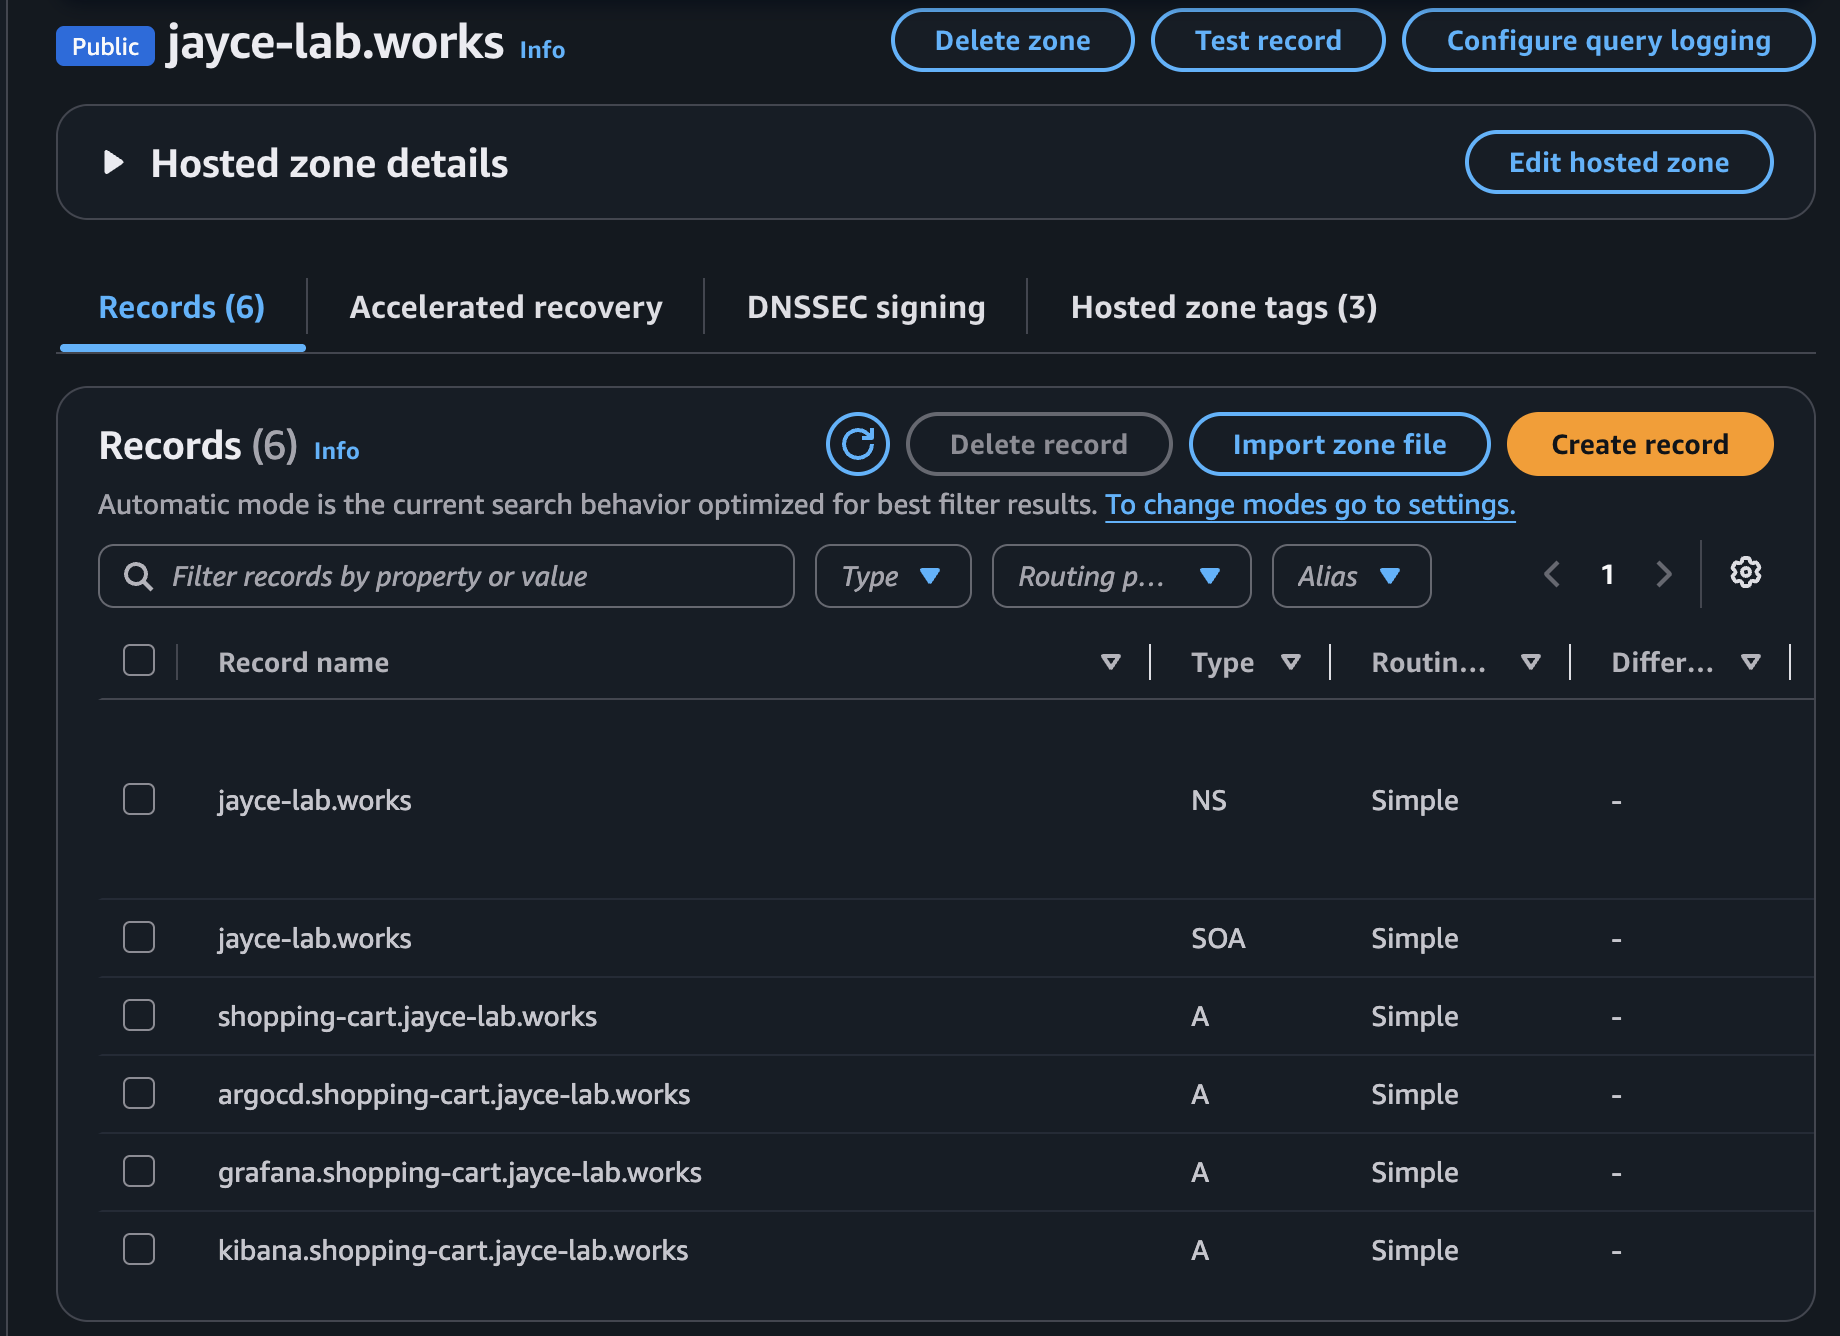
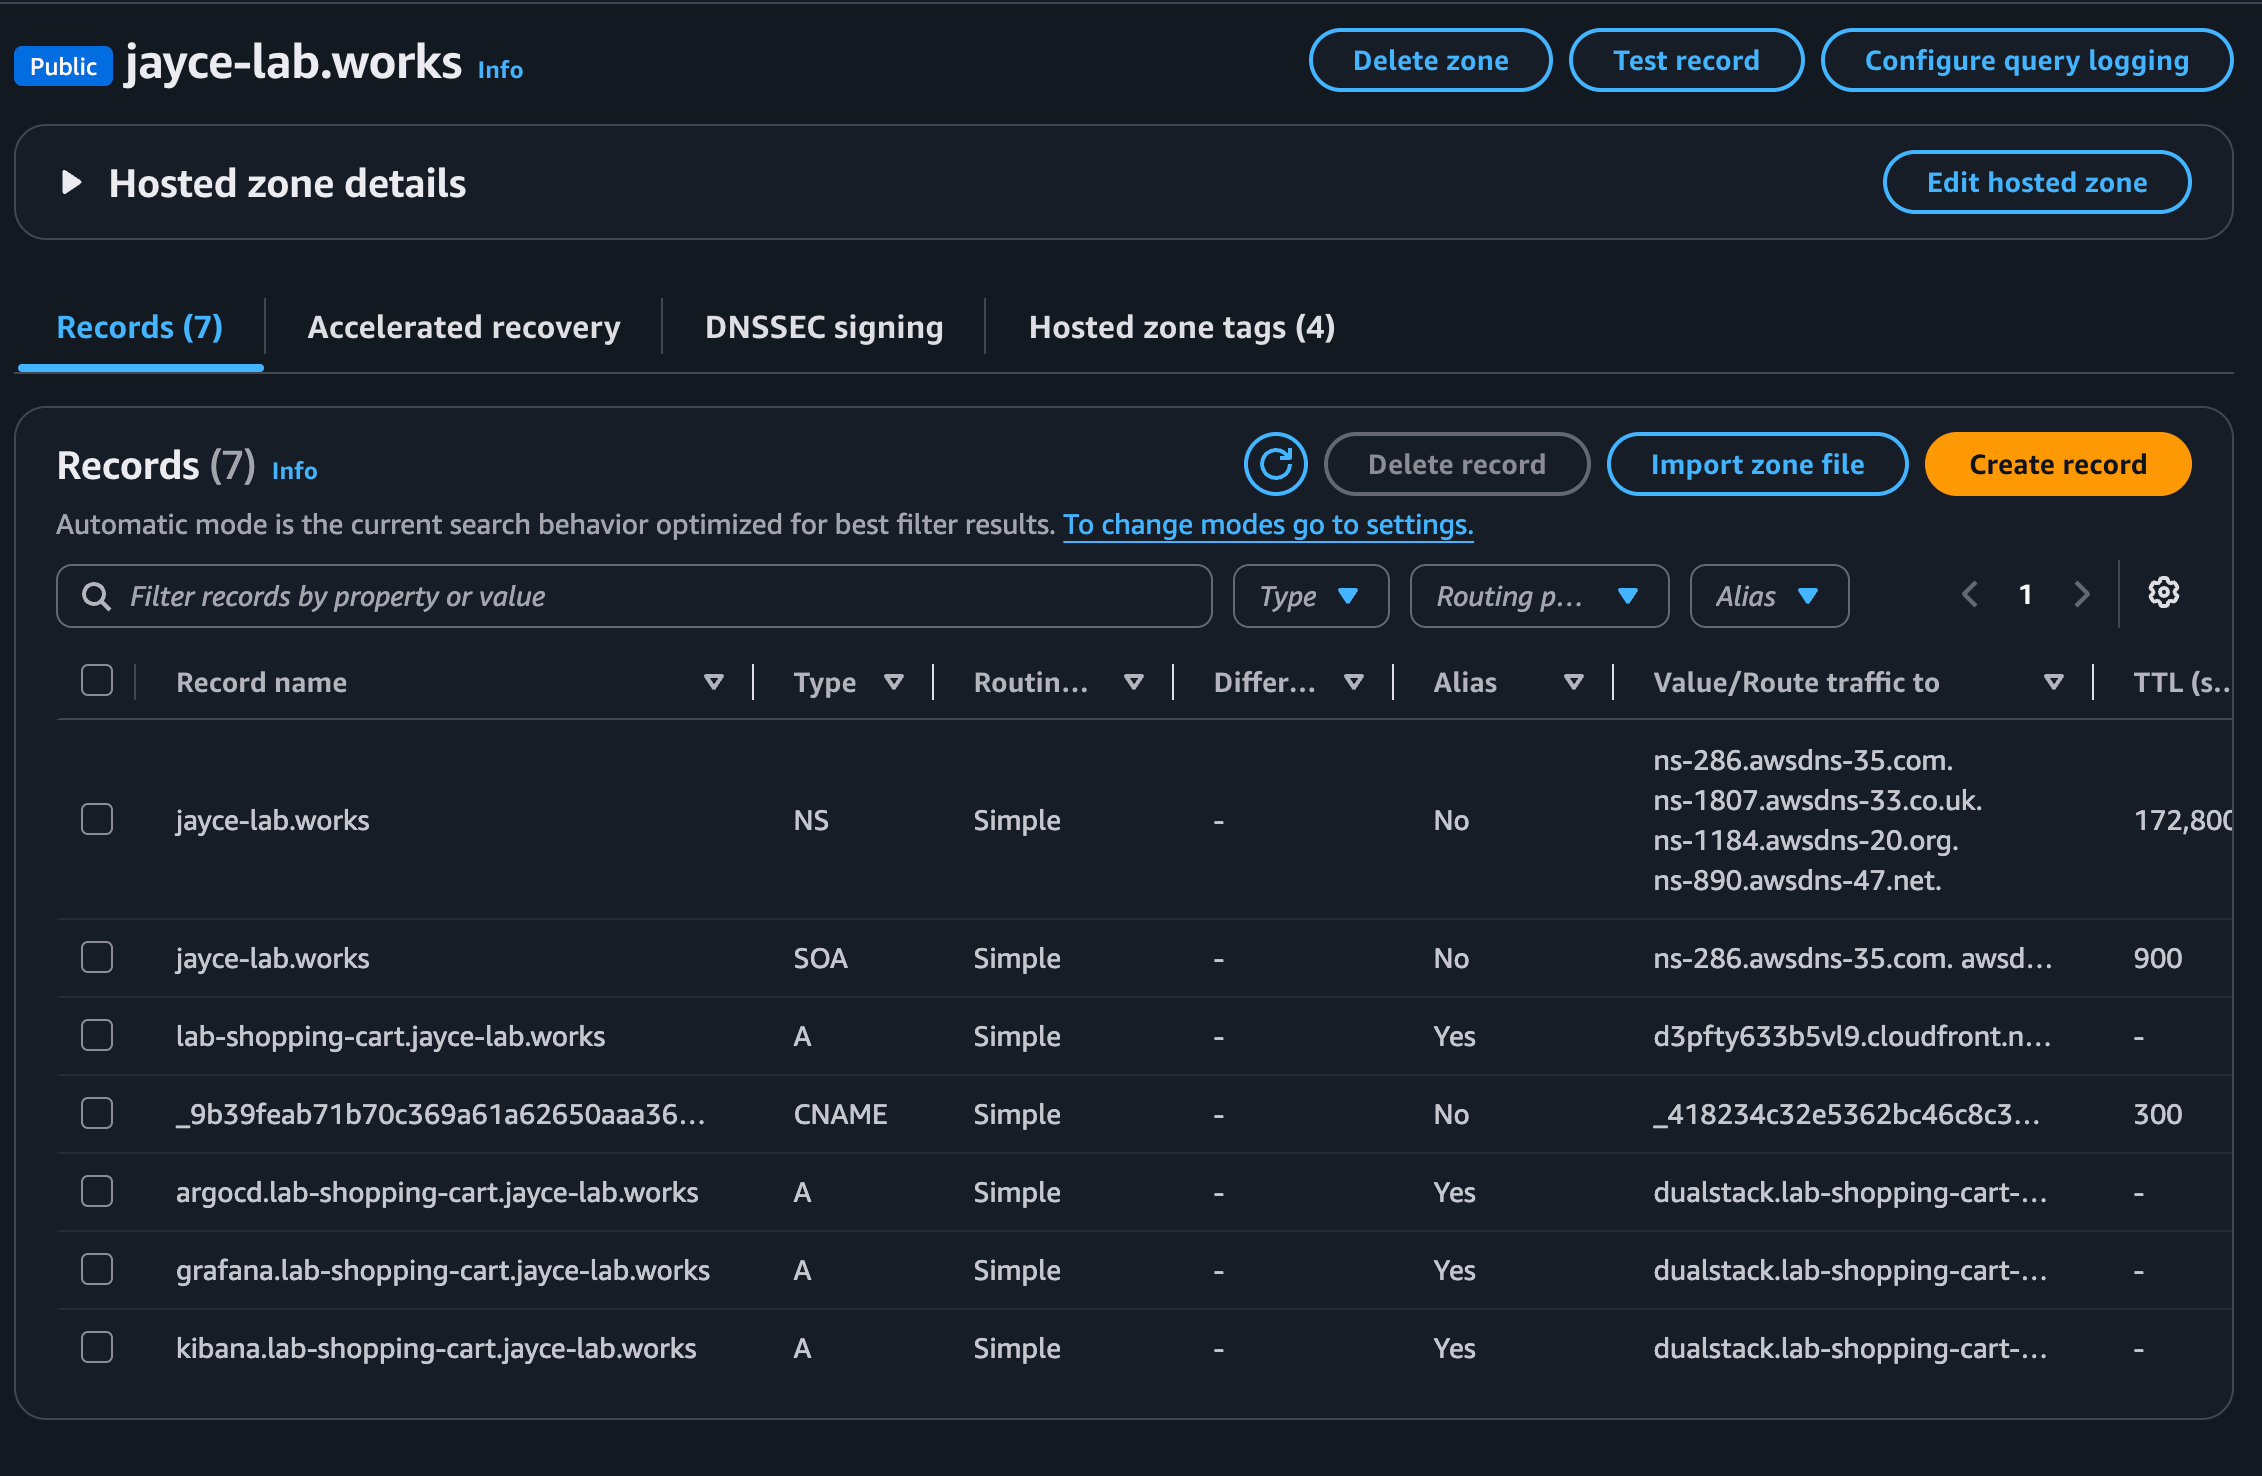
Update

diff --git a/README.md b/README.md
@@ -89,36 +89,39 @@ The goal is a complete path from Terraform infrastructure → CI pipeline → Gi
 
 ### 3. Services
 
-| Service | Port | Description |
-| ------- | ---- | ----------- |
-| Catalog-service | 4000 | Product catalog API (`/api/products`); enriches stock via Inventory; caches with Valkey |
-| Inventory-service | 5000 | Inventory API (`/api/inventory`); consumes order events from SQS |
-| Order-service | 6000 | Orders API (`/api/orders`); publishes order events to SQS |
-| Web-ui-service | 80 | React SPA for browsing products, cart, and orders; served via S3 + CloudFront |
-| ArgoCD | 8080 | GitOps console for deploying and syncing Kubernetes apps |
-| Kibana | 5601 | Log search and dashboards (EFK) |
-| Grafana | 8090 | Metrics dashboards (Kube-Prometheus) |
+Internet-facing hostnames use `lab-shopping-cart.jayce-lab.works`.
+
+| Service | Port | Public hostname | Description |
+| ------- | ---- | --------------- | ----------- |
+| Catalog-service | 4000 | `https://lab-shopping-cart.jayce-lab.works/api/products` | Product catalog API; enriches stock via Inventory; caches with Valkey |
+| Inventory-service | 5000 | `https://lab-shopping-cart.jayce-lab.works/api/inventory` | Inventory API; consumes order events from SQS |
+| Order-service | 6000 | `https://lab-shopping-cart.jayce-lab.works/api/orders` | Orders API; publishes order events to SQS |
+| Web-ui-service | 80 | `https://lab-shopping-cart.jayce-lab.works` | React SPA; CloudFront + S3 |
+| ArgoCD | 8080 | `https://argocd.lab-shopping-cart.jayce-lab.works` | GitOps console |
+| Kibana | 5601 | `https://kibana.lab-shopping-cart.jayce-lab.works` | Log search and dashboards (EFK) |
+| Grafana | 8090 | `https://grafana.lab-shopping-cart.jayce-lab.works` | Metrics dashboards (Kube-Prometheus) |
 
 ### 4. Repository
 
-This lab uses **one Git repository** that stores all source code (services and DevOps).
+This GitHub repo stores all source code. GitLab CI/CD uses a **separate project per folder**.
 
 ```
 shopping-cart-project/
 ├── services/
-│   ├── catalog/                 # Catalog microservice
-│   ├── inventory/               # Inventory microservice
-│   ├── order/                   # Order microservice
-│   └── web-ui/                  # React web UI
+│   ├── catalog/                 # → GitLab: shopping-cart-catalog
+│   ├── inventory/               # → GitLab: shopping-cart-inventory
+│   ├── order/                   # → GitLab: shopping-cart-order
+│   └── web-ui/                  # → GitLab: shopping-cart-web-ui
 ├── devops/
-│   ├── shopping-cart-infra/     # Terraform modules for AWS
-│   └── shopping-cart-manifest/  # Helm charts and ArgoCD manifests
+│   ├── shopping-cart-infra/     # → GitLab: shopping-cart-infra
+│   └── shopping-cart-manifest/  # → GitLab: shopping-cart-manifest
 ├── docs/
 └── README.md
 ```
 
-- Clone this repository, then create a matching project in GitLab.
-- Note: You can choose GitHub or GitLab as the source code management and CI/CD system. This lab uses GitLab.
+- Clone this repository for the source tree.
+- Create matching GitLab projects from each folder above.
+- Note: You can choose GitHub or GitLab as the source code management and CI/CD system. This lab uses GitLab for CI/CD.
 
 ## III. Prerequisites
 
@@ -136,14 +139,15 @@ shopping-cart-project/
 
 ### GitLab account
 
-- Clone this repository, then create one GitLab project for the shopping-cart source code.
-- Use the folders in this repo: `services/` for frontend and backend, `devops/` for infrastructure and manifests.
+- This repo stores the source code. Copy each folder into its own GitLab project.
+- Create GitLab groups `Services` (catalog, inventory, order, web-ui) and `DevOps` (infra, manifest).
+- Each of these must be a separate GitLab project: `shopping-cart-infra`, `shopping-cart-manifest`, `shopping-cart-catalog`, `shopping-cart-inventory`, `shopping-cart-order`, `shopping-cart-web-ui`.
 
 <img src="docs/images/image3.png" alt="GitLab group and repositories" width="800" />
 
 ### Local setup
 
-- Clone this repository. The folder structure is already in the repo.
+- Clone this repository. Push each `services/` and `devops/` folder to its matching GitLab project.
 
 <img src="docs/images/image7.png" alt="Local repository folder structure" width="300" />
 
@@ -156,7 +160,7 @@ shopping-cart-project/
 
 ### 1. Setup S3 backend remote state
 
-Set up an S3 backend for Terraform state to avoid deployment conflicts and improve state management.
+Set up an S3 backend for Terraform state to avoid deployment conflicts and improve state management. Run this from `devops/shopping-cart-infra/remote-tfstate`.
 
 <img src="docs/images/image9.png" alt="Terraform remote state module" width="600" />
 
@@ -164,16 +168,17 @@ Set up an S3 backend for Terraform state to avoid deployment conflicts and impro
 
 ### 2. Deploy and configure Route53 Hosted Zone and ACM
 
-- Deploy the Route53 and ACM modules from the root module:
+- From `devops/shopping-cart-infra`, deploy Route53 and the ALB ACM certificate first:
 
 ```bash
-terraform apply --target=module.route53
-terraform apply --target=module.acm_alb
-terraform apply --target=module.acm_cf
+cd devops/shopping-cart-infra
+terraform apply --target=module.hosted_zone
+terraform apply --target=module.acm
 ```
 
 - **Route53:** Manage the root domain `jayce-lab.works`.
-- **ACM:** Issue a certificate for `*.shopping-cart.jayce-lab.works` (ALB) and `shopping-cart.jayce-lab.works` (CloudFront for web-ui).
+- **ACM (ALB):** `*.lab-shopping-cart.jayce-lab.works` from `module.acm`.
+- **ACM (CloudFront):** `lab-shopping-cart.jayce-lab.works` is created later with `module.cloudfront` in `us-east-1`.
 
 <img src="docs/images/image11.png" alt="ACM certificates" width="600" />
 
@@ -197,9 +202,10 @@ terraform apply --target=module.acm_cf
 
 ### 3. Deploy the rest of the services
 
-Deploy the remaining modules from `main.tf` (after Route53 and ACM):
+Deploy the remaining modules from `devops/shopping-cart-infra/main.tf` (after Route53 and ACM):
 
 ```bash
+cd devops/shopping-cart-infra
 terraform apply
 ```
 
@@ -212,20 +218,18 @@ terraform apply
 | GitLab Runner | EC2 + user data | EC2 instance that registers and runs GitLab CI jobs |
 | Runner IAM | GitLab OIDC IAM role | Lets GitLab CI assume an AWS role (`AWS_ROLE`) without long-lived keys |
 | ALB | External Application Load Balancer | HTTPS load balancer with target groups for catalog, inventory, order, ArgoCD, Grafana, and Kibana |
-| CloudFront | CloudFront + S3 origin | Hosts web-ui on S3; alias `shopping-cart.jayce-lab.works`; routes `/api/*` to ALB |
+| CloudFront | CloudFront + S3 origin | Hosts web-ui on S3; alias `lab-shopping-cart.jayce-lab.works`; routes `/api/*` to ALB |
 | SQS | `order-events` queue | Async queue for order → inventory event flow (KMS encrypted) |
 | RDS | MySQL 8.0 (`db.t4g.micro`, port 3306) | Shared MySQL database in private subnets for the microservices |
 | Secrets Manager | App and platform secrets | Stores RDS credentials, Helm git token, GitLab runner token, and addon passwords (ArgoCD, Grafana, Elastic) |
 | Valkey | ElastiCache Valkey 7.2 (`cache.t4g.micro`, port 6379) | In-memory cache for catalog and inventory services |
-| EKS | EKS 1.35 + managed node group | Kubernetes cluster in private subnets; Spot nodes (`t3`/`t3a.medium`, desired 3) |
+| EKS | EKS 1.35 + managed node group | Kubernetes cluster in private subnets; Spot nodes (`t3`/`t3a.medium`, desired 4, min 2, max 5) |
 | Helm | AWS Load Balancer Controller, ArgoCD, cert-manager, Cluster Autoscaler, External Secrets, Pod Identity (inventory, order) | Installs cluster addons: ALB target group binding, GitOps sync from `devops/shopping-cart-manifest`, node autoscaling, Secrets Manager sync, and SQS IAM roles for service accounts |
 
-- Update RDS, Redis endpoints, SQS URLs, ... in the `.env.example` files under `services/` (`catalog`, `inventory`, `order`, `web-ui`).
-
-<img src="docs/images/image59.png" alt="Env.example files" width="800" />
+- Update RDS, Redis endpoints, SQS URLs, S3 bucket name, ... in each services GitLab project **APP_ENV** variable.
 
 ### 4. Setup GitLab
-- Create an environment `lab` on the protected **main** branch.
+- Create an environment `lab` on the protected **main** branch of each GitLab project.
 
 <img src="docs/images/image57.png" alt="GitLab environment" width="800" />
 
@@ -244,13 +248,13 @@ terraform apply
 | ARGOCD_URL | Services | Hostname of ArgoCD |
 | AWS_ECR | Services | ECR repository ARN |
 | AWS_ROLE | Services, DevOps | GitLab OIDC provider IAM role |
-| HELM_REPO_URL | Services | HTTPS URL of this GitLab project (manifests live in `devops/shopping-cart-manifest`) |
-| HELM_REPO_TOKEN | Services | Access token for this GitLab project |
+| HELM_REPO_URL | Services | HTTPS URL of the `shopping-cart-manifest` GitLab project |
+| HELM_REPO_TOKEN | Services | Access token for the `shopping-cart-manifest` GitLab project |
 | AWS_REGION | Services, DevOps | AWS region for the project |
 | AWS_S3 | Services (web-ui) | Origin S3 bucket ARN |
 | AWS_DISTRIBUTION_ID | Services (web-ui) | CloudFront distribution ID |
 
-- In GitLab, create a fine-grained token for this project with read and write access for commits (used to update Helm values in `devops/shopping-cart-manifest`).
+- In GitLab, create a token scoped to the `shopping-cart-manifest` project with read and write access for commits.
 
 <img src="docs/images/image17.png" alt="GitLab fine-grained access token" width="800" />
 
@@ -260,7 +264,7 @@ terraform apply
 
 ### 5. Configure GitLab runner for CI/CD
 
-- Authenticate the GitLab OIDC provider with AWS. Use the `lab-shopping-cart-gitlab-runner-provider` ARN to create temporary AWS credentials for the GitLab runner Docker executor. Copy the IAM role ARN into the `AWS_ROLE` variable in this GitLab project.
+- Authenticate the GitLab OIDC provider with AWS. Use the `lab-shopping-cart-gitlab-runner-provider` ARN to create temporary AWS credentials for the GitLab runner Docker executor. Copy the IAM role ARN into the `AWS_ROLE` variable in each GitLab project that needs AWS.
 
 <img src="docs/images/image19.png" alt="GitLab OIDC IAM role" width="800" />
 
@@ -272,7 +276,7 @@ terraform apply
 
 ``` bash
 sudo gitlab-runner register  --url https://gitlab.com  --token <gitlab-runner-registration-token>
-# Defaul: https://gitlab.com -> Press Enter
+# Default: https://gitlab.com -> Press Enter
 shopping-cart
 docker
 alpine:latest
@@ -289,8 +293,8 @@ sudo systemctl enable gitlab-runner
 
 <img src="docs/images/image23.png" alt="Infrastructure pipeline overview" width="800" />
 
-- Push Terraform changes under `devops/shopping-cart-infra`.
-- Verify the `terraform-plan` job, then run the `terraform-apply` job manually.
+- Push Terraform changes to the `shopping-cart-infra` GitLab project (source: `devops/shopping-cart-infra`).
+- Verify the `terraform-plan` job, then run the `terraform-deploy` job manually.
 
 <img src="docs/images/image24.png" alt="Terraform plan and apply jobs" width="800" />
 
@@ -302,11 +306,22 @@ sudo systemctl enable gitlab-runner
 
 ### 7. Deploy ArgoCD, EFK, and Kube-Prometheus
 
+Create Route53 records for the public hostnames:
+
+| Hostname | Record | Alias target |
+| -------- | ------ | ------------ |
+| `lab-shopping-cart.jayce-lab.works` | CNAME | CloudFront (web-ui; `/api/*` goes to ALB) |
+| `argocd.lab-shopping-cart.jayce-lab.works` | A (alias) | External ALB |
+| `grafana.lab-shopping-cart.jayce-lab.works` | A (alias) | External ALB |
+| `kibana.lab-shopping-cart.jayce-lab.works` | A (alias) | External ALB |
+
 - Add a CNAME record for web-ui using the CloudFront alias.
 
 <img src="docs/images/image26.png" alt="CloudFront CNAME record" width="800" />
 
 - Add A records for ArgoCD, Kibana, and Grafana using the ALB alias.
+
+<img src="docs/images/image30.png" alt="ArgoCD Route53 record" width="800" />
 
 <img src="docs/images/image27.png" alt="ALB alias A records" width="800" />
 
@@ -316,11 +331,7 @@ sudo systemctl enable gitlab-runner
 
 <img src="docs/images/image29.png" alt="Manifest targetGroupArn values" width="800" />
 
-- Create a Route53 record for the ArgoCD hostname `argocd.shopping-cart.jayce-lab.works` (ALB alias).
-
-<img src="docs/images/image30.png" alt="ArgoCD Route53 record" width="800" />
-
-- Log in to the ArgoCD console at `argocd.shopping-cart.jayce-lab.works` with user `admin` and the password from the `helm-addon-credentials` secret.
+- Log in to the ArgoCD console at `argocd.lab-shopping-cart.jayce-lab.works` with user `admin` and the password from the `helm-addon-credentials` secret.
 
 <img src="docs/images/image31.png" alt="ArgoCD login" width="800" />
 
@@ -330,7 +341,7 @@ sudo systemctl enable gitlab-runner
 
 ### 8. Deploy the web application
 
-- Commit and push service changes under `services/`:
+- Commit and push each service GitLab project (source folders under `services/`):
 
 <img src="docs/images/image34.png" alt="Service repository changes" width="800" />
 
@@ -390,7 +401,7 @@ sudo systemctl enable gitlab-runner
 
 <img src="docs/images/image51.png" alt="Update Slack webhook secret" width="800" />
 
-- Commit and push the changes under `devops/shopping-cart-manifest`. Result:
+- Commit and push the `shopping-cart-manifest` GitLab project (source: `devops/shopping-cart-manifest`). Result:
 
 <img src="docs/images/image52.png" alt="Slack alert result" width="800" />
 
